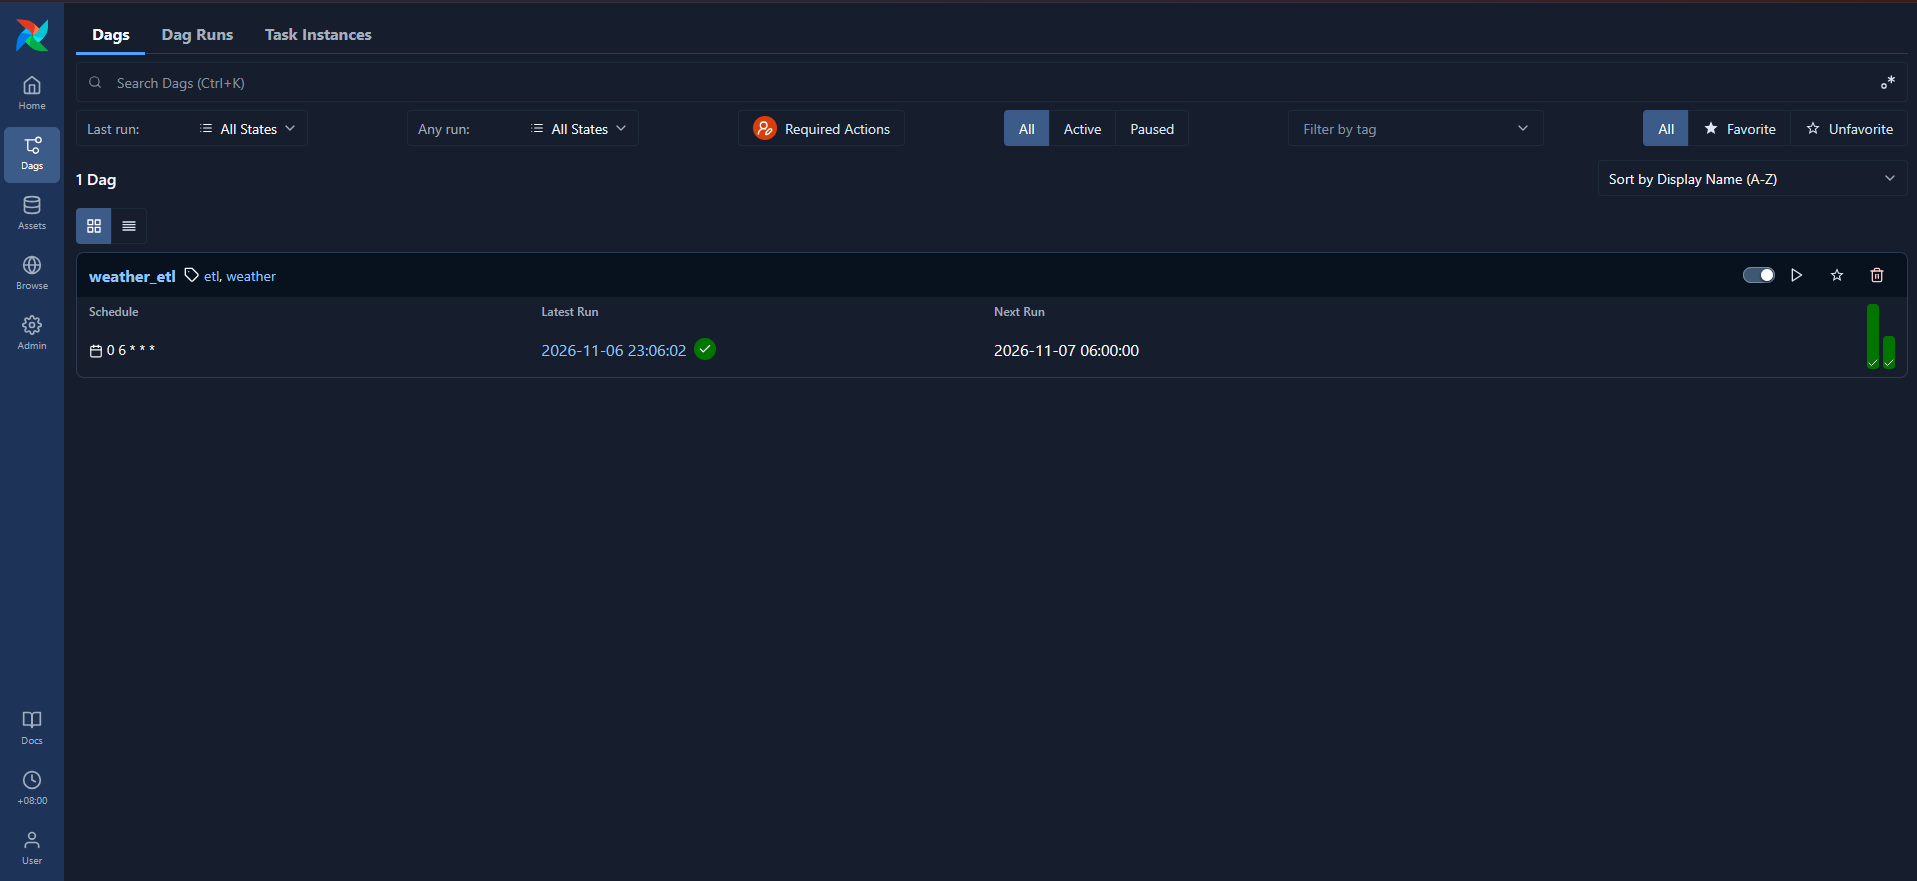
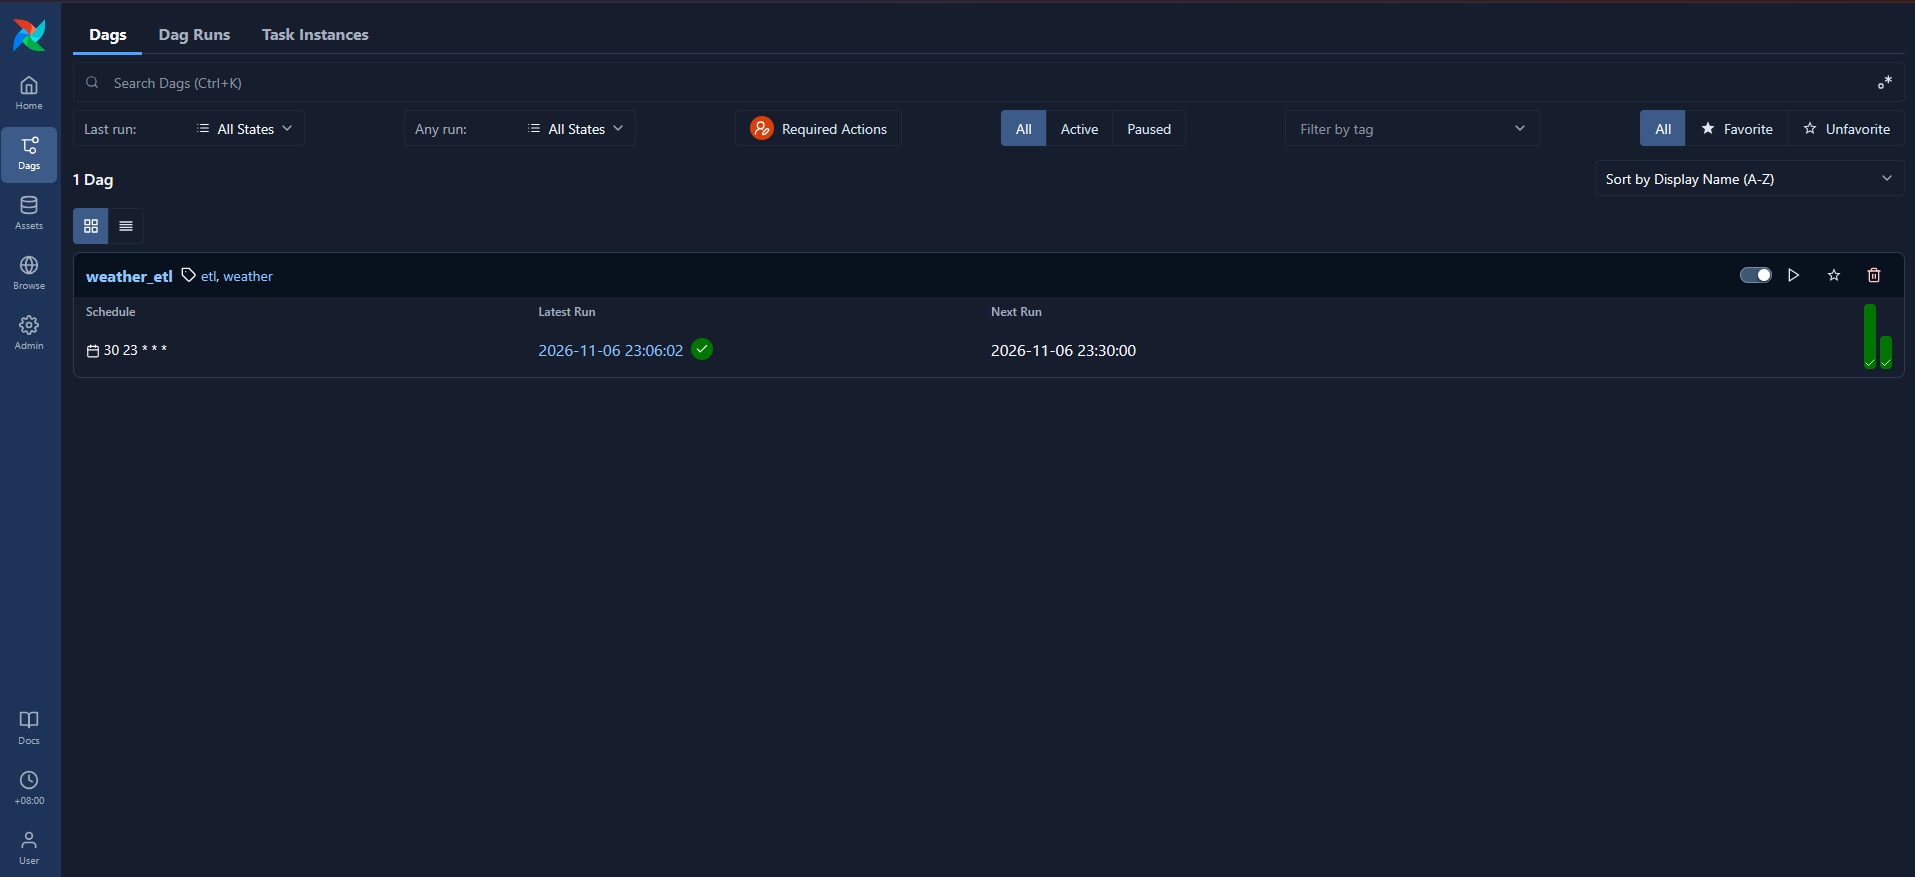
Document Airflow access through an SSH tunnel

diff --git a/README.md b/README.md
@@ -137,7 +137,8 @@ when queried, without a separate Airflow refresh task.
 The existing Docker Compose stack ran on one Ubuntu 24.04 EC2 instance in
 Sydney. Airflow and both PostgreSQL services ran on EC2, and the Airflow UI was
 accessed through an SSH tunnel. The manual DAG run succeeded on November 6,
-2026. Verification of the 6:00 AM Manila run with the local PC off is pending.
+2026. We temporarily set the EC2 demo schedule to 23:30 Manila time that day
+to test a run with the local PC off. Verification of that run is pending.
 
 ### Why EC2 for this demo?
 
@@ -187,6 +188,26 @@ Compose runs in detached mode, so the services stay up after SSH disconnects.
 The five long-running services should be healthy and `airflow-init` should
 show `Exited (0)`.
 
+### View Airflow through an SSH tunnel
+
+We used SSH local port forwarding to view the Airflow UI on EC2. Run this in
+a separate terminal on your PC with your key path and EC2 hostname.
+
+```text
+ssh -N -L 8080:127.0.0.1:8080 -i "path-to-key.pem" ubuntu@EC2_PUBLIC_DNS
+```
+
+`-N` opens the tunnel without starting a remote shell. `-L` forwards port
+`8080` on your PC to `127.0.0.1:8080` on EC2, where Airflow listens. Keep that
+terminal open while you use the UI. If the local Weather ETL stack is using
+port `8080`, stop it before opening the tunnel.
+
+Open [Airflow](http://localhost:8080) and sign in as `admin` using
+`AIRFLOW_ADMIN_PASSWORD` from the EC2 `.env`. On **Dags**, open `weather_etl`
+to see its schedule and **Next Run** time. In **Dag Runs**, check **Run Type**,
+**State**, and **Start Date** to verify when a scheduled run actually started
+and whether it succeeded.
+
 ### Trigger and verify the manual DAG run
 
 Trigger `weather_etl` from the repo directory on EC2.
@@ -197,20 +218,10 @@ sudo docker compose exec airflow-scheduler airflow dags trigger weather_etl
 
 ![EC2 terminal showing healthy Compose services and the queued manual Airflow run](docs/images/ec2-compose-manual-trigger.png)
 
-The terminal output shows the manual run was queued. To see the result, open
-an SSH tunnel from a separate terminal on your PC, using your key path and EC2
-hostname.
+The terminal output shows the manual run was queued. In **Dag Runs**, look
+for a **Manual** run and check its final state.
 
-```text
-ssh -N -L 127.0.0.1:8080:127.0.0.1:8080 -i "path-to-key.pem" ubuntu@EC2_PUBLIC_DNS
-```
-
-With the tunnel open, visit [Airflow](http://localhost:8080), sign in as `admin`
-using `AIRFLOW_ADMIN_PASSWORD` from the EC2 `.env`, and open **Dag Runs**.
-If your local Weather ETL stack is using port `8080`, stop that stack before
-opening the tunnel.
-
-![Airflow DAG list showing the successful manual run and next 6 AM Manila run](docs/images/ec2-airflow-manual-success.png)
+![Airflow DAG list showing the successful manual run and the next run at 23:30 Manila time](docs/images/ec2-airflow-manual-success.png)
 
 Airflow recorded **Success** for the November 6, 2026 manual run at 11:06 PM
 Manila time. All nine extract, transform, and load tasks succeeded across
@@ -218,10 +229,13 @@ Manila, Cebu, and Davao.
 
 ### Verify the scheduled run and clean up
 
-Leave EC2 and its containers running and keep `weather_etl` unpaused. Turn off
-the local PC before 6:00 AM Manila time. After reconnecting, confirm a new
+For the demo, we set the cron expression to `30 23 * * *` in the EC2 copy of
+`dags/weather_etl_dag.py` and checked that Airflow showed **Next Run** at 23:30
+Manila time. Leave EC2 and its containers running, keep `weather_etl` unpaused,
+and turn off the local PC before that time. After reconnecting, confirm a new
 **Scheduled** run succeeded and check its actual start time. Record the deployed
 commit, run timestamp, and PostgreSQL row counts by city for the weather date.
+Restore `0 6 * * *` on EC2 after the test to resume the usual 06:00 schedule.
 
 After the demo, export the results you want to keep, terminate the instance,
 and check for remaining EBS volumes and allocated public IPs. For ongoing
